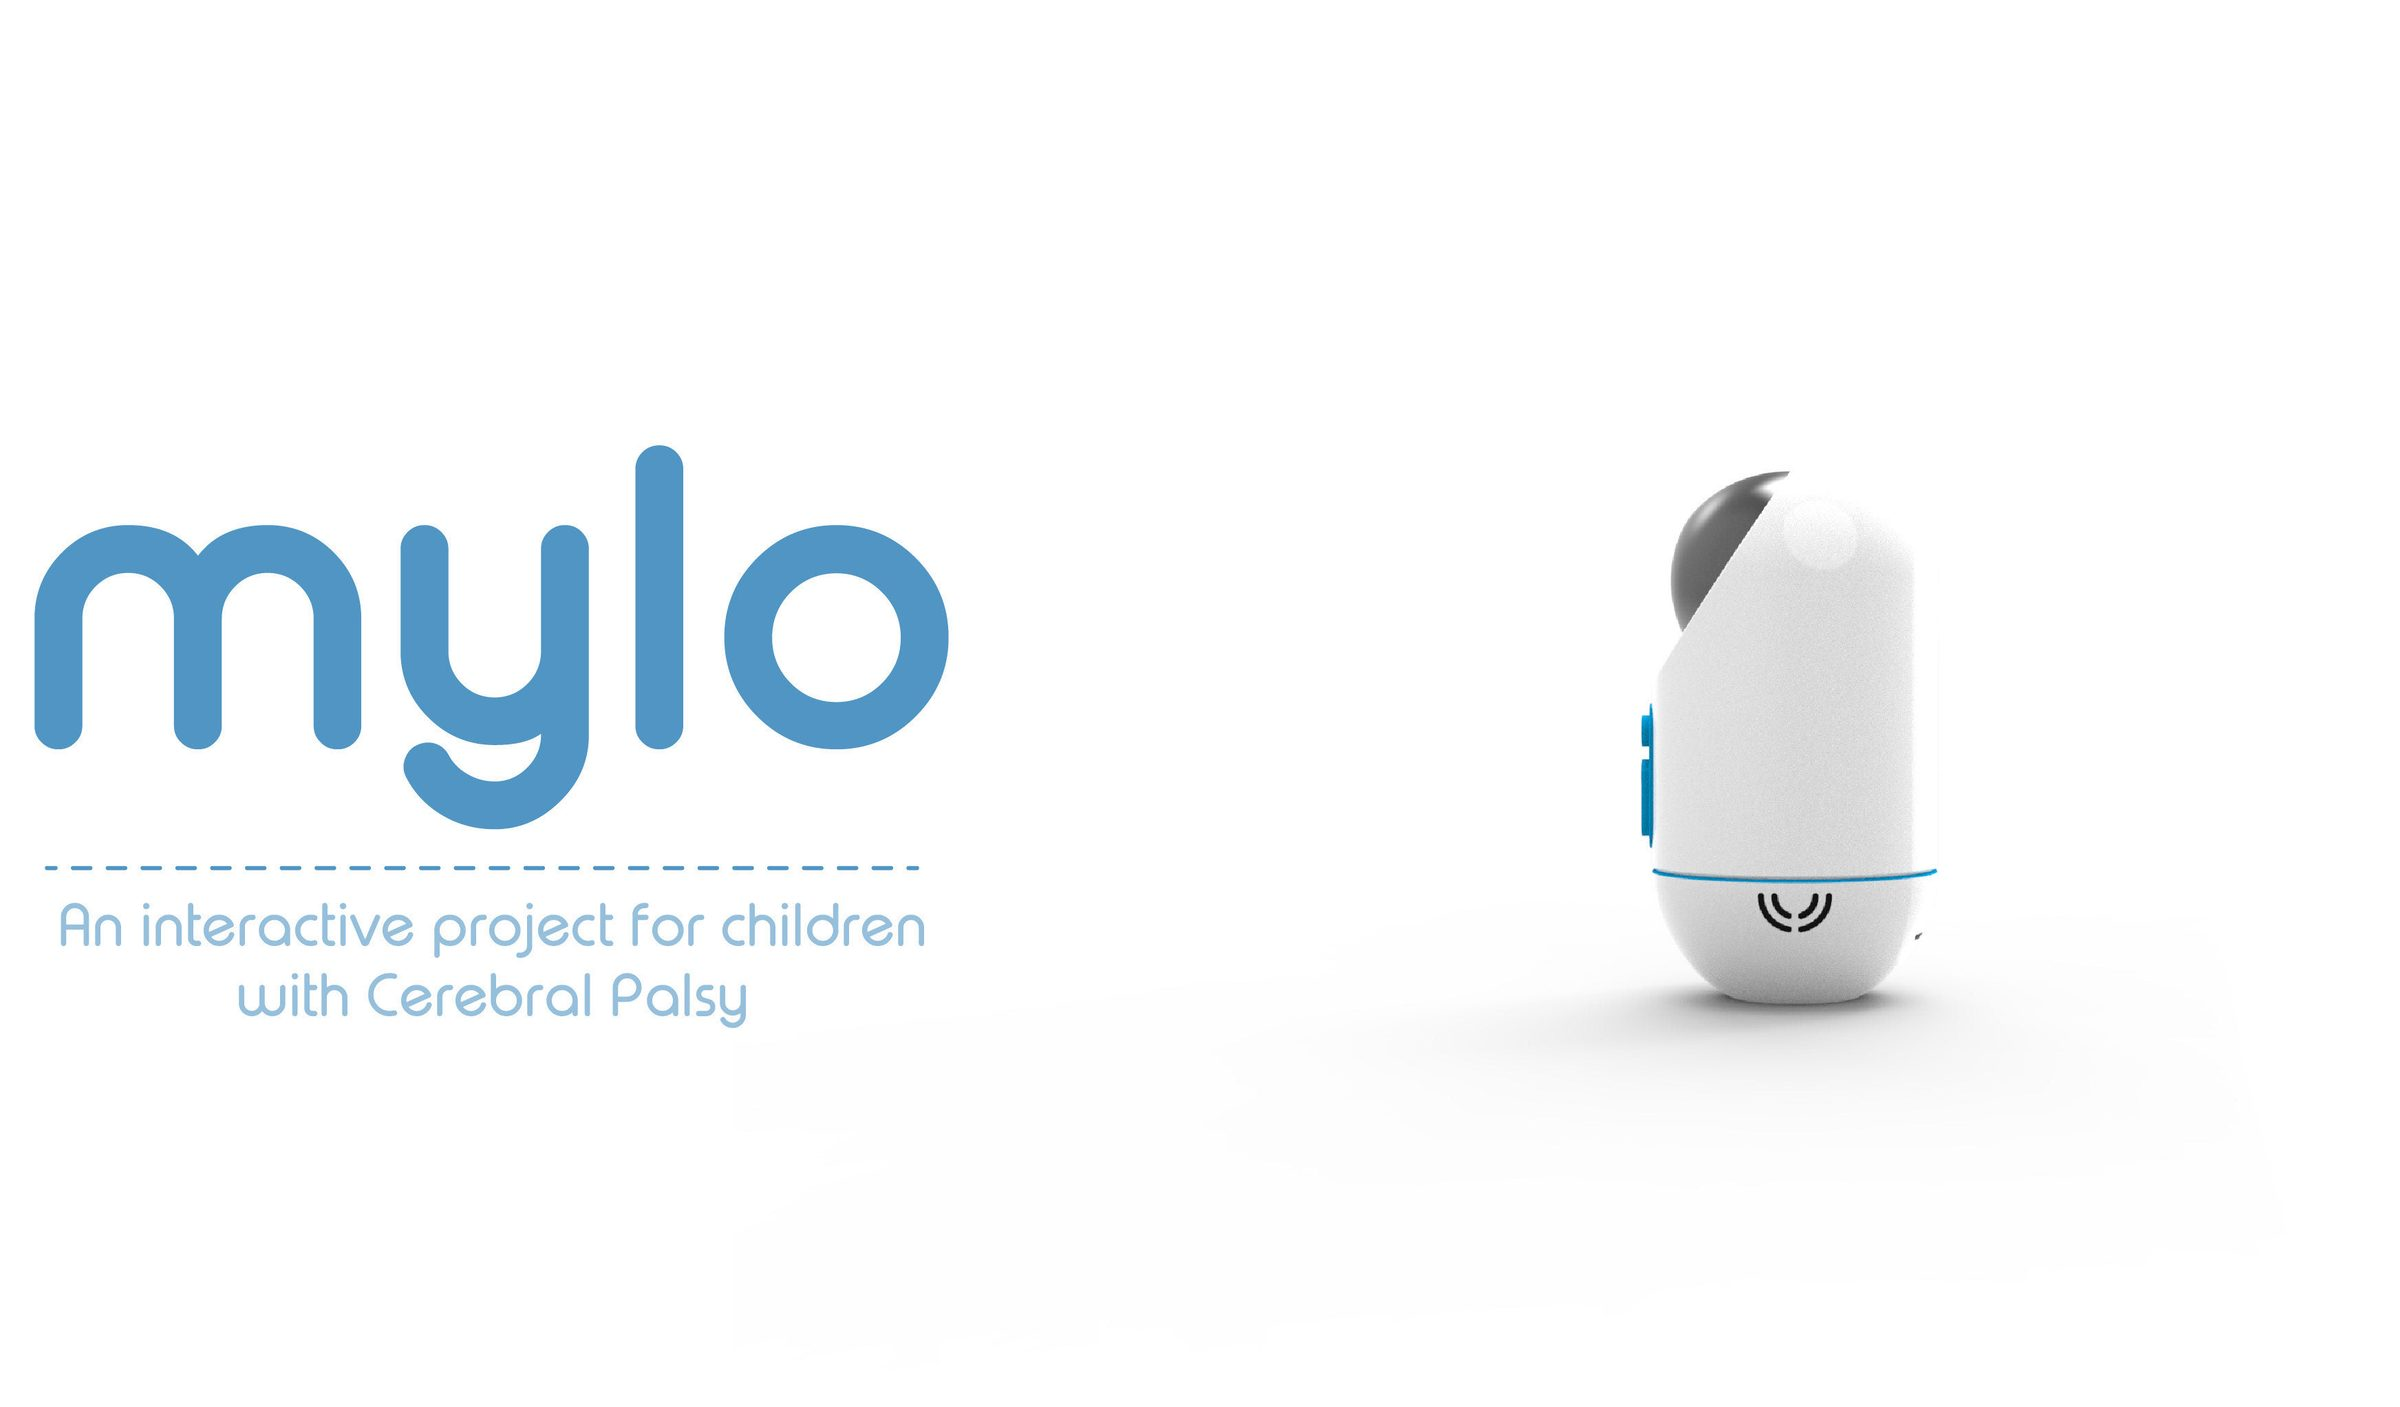
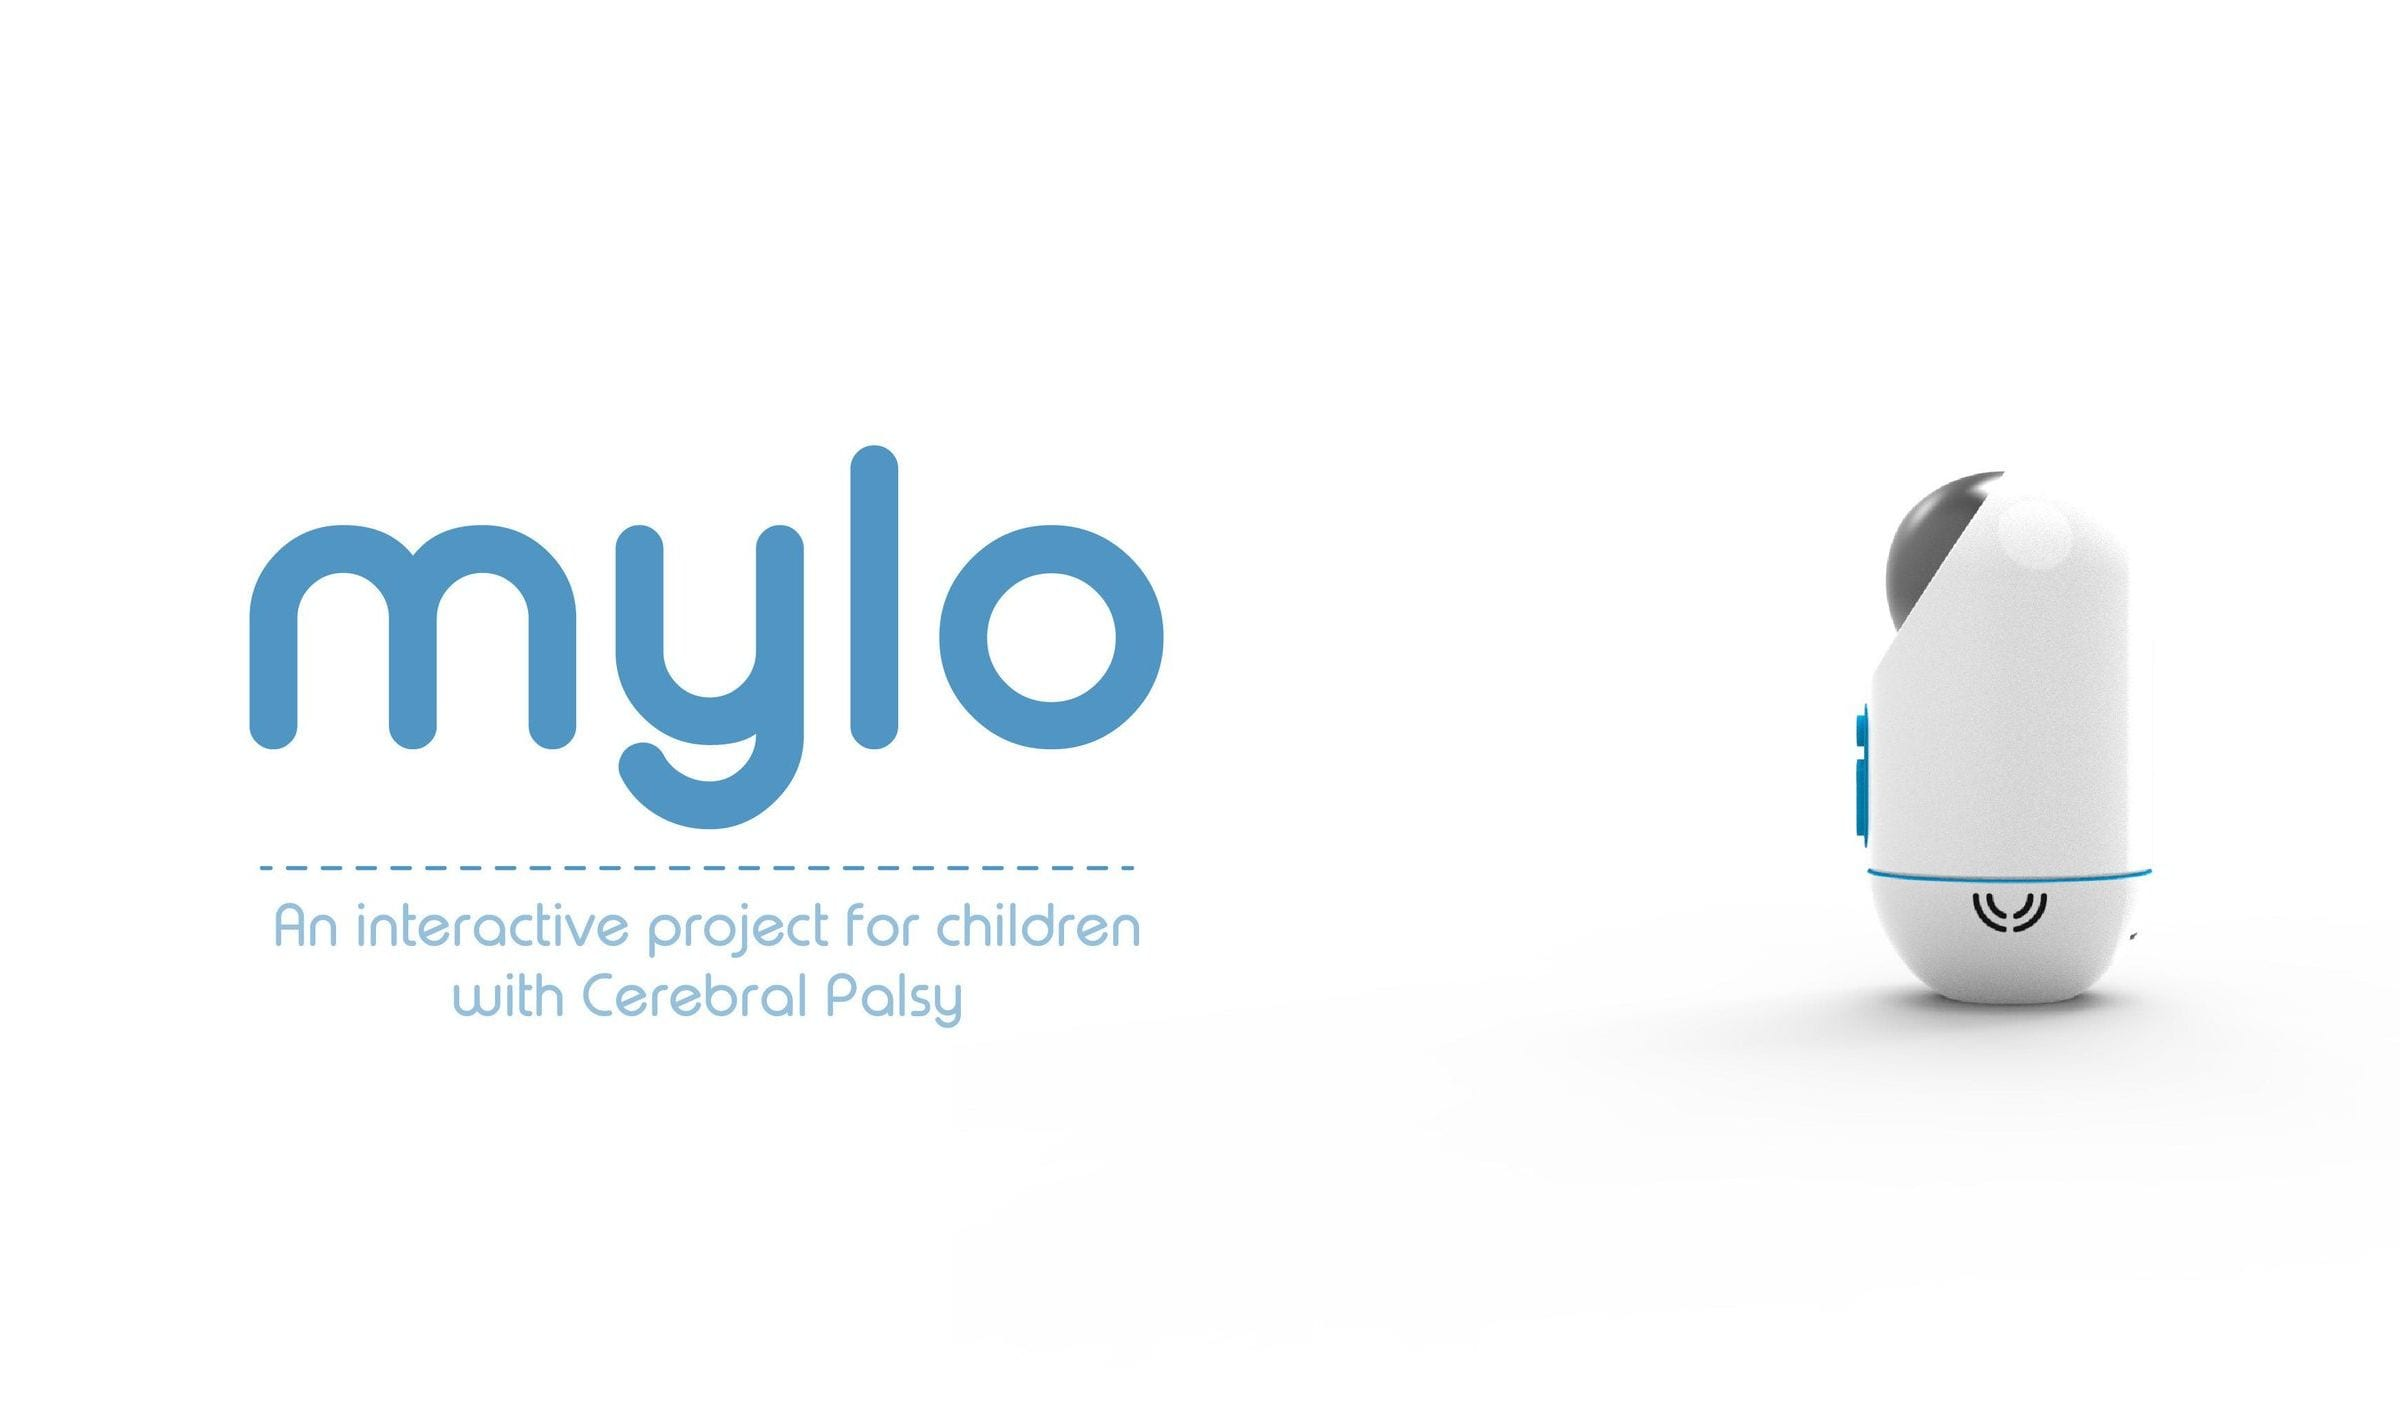
Remove DEV X and Premier League pages, centre the Mylo cover
Drops both pages, their images and backlog rows, and the About page
link to DEV X. Re-centres the Mylo cover so the logo and device have
even margins.

Changed region(s): [[0.0, 0.3056, 0.5, 0.6112], [0.6562, 0.3362, 0.9062, 0.7335], [0.0, 0.6418, 0.4688, 0.7335]]

diff --git a/app/(site)/about/page.tsx b/app/(site)/about/page.tsx
@@ -48,8 +48,7 @@ const bio: { label: string; body: ReactNode }[] = [
     label: "Where I started",
     body: (
       <>
-        I trained in industrial design, so I started on physical things: a pair of{" "}
-        <Inline href="/work/dev-x">recording binoculars</Inline> and{" "}
+        I trained in industrial design, so I started on physical things like{" "}
         <Inline href="/work/mylo">Mylo</Inline>, a classroom projector that made the James Dyson Award top three
         in Ireland. Then I moved to screens.
       </>

diff --git a/content/_pipeline/backlog.md b/content/_pipeline/backlog.md
@@ -23,11 +23,9 @@ Source files and transcribed copy are in `content/inbox/adobe-portfolio/` (git-i
 | -------------------- | ---------- | --------- | -------------------------------------------------------- |
 | AIB Service Finder   | work       | published | Named AIB, at Dylan's request. Featured                  |
 | Mylo                 | work       | published | Dyson Award Top 3 IE, DRS 2018. Confirm tools used       |
-| DEV X                | work       | published | Date is approximate (undergrad). Confirm the year        |
 | Boston Coffee House  | play       | published | Short entry                                              |
 | De Young Museum      | play       | published | Short entry                                              |
 | Digital Rendering    | play       | published | Short entry. Date approximate                            |
-| Premier League app   | play       | published | Short entry                                              |
 | Runcoin              | play       | published | Short entry. Date approximate                            |
 
 ## Personal projects (seeded from ~/Desktop/Projects and your domains)
